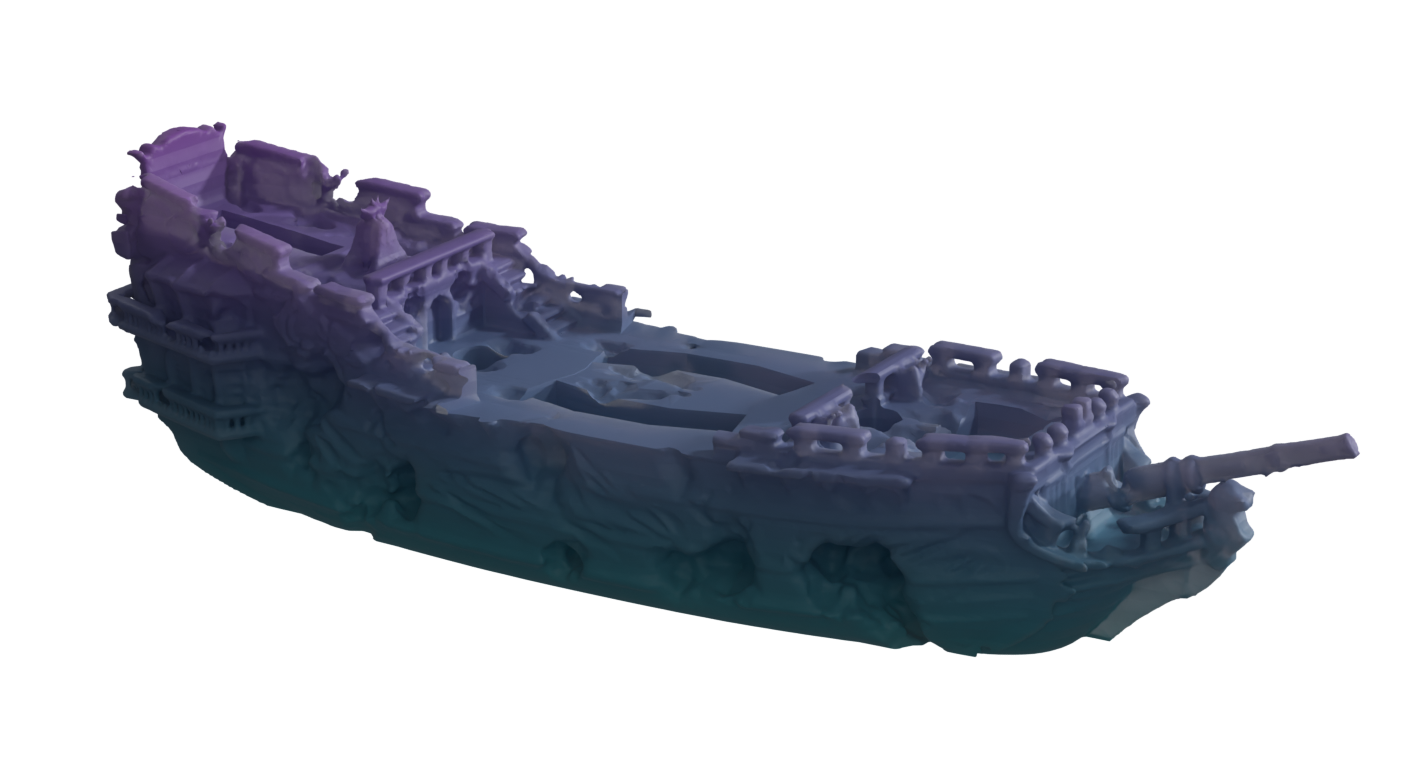
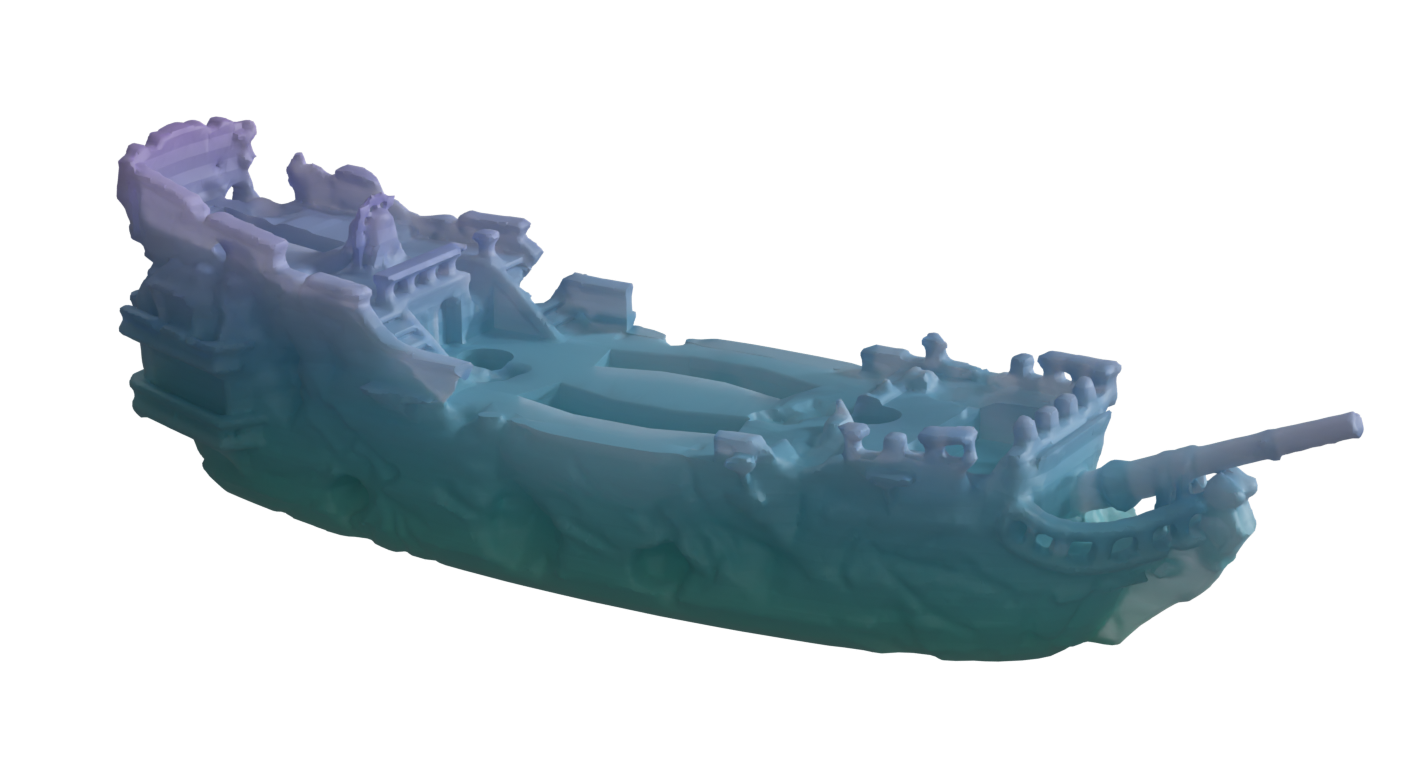
Shadow Fleet renders: light, ethereal teal-blue-lavender PETG
The gradient PETG went from dark teal/purple to a three-stop sea green, sky
blue and lavender with far less absorption and more subsurface glow.
Re-rendered the preview, parts-gallery image and faction card; ?v=2 on the
site references so cached copies refresh.

Changed region(s): [[0.0625, 0.1562, 0.9688, 0.875]]

diff --git a/nuxt-site/server/utils/shopMock.ts b/nuxt-site/server/utils/shopMock.ts
@@ -244,7 +244,7 @@ function addOnFactions(): Product[] {
       setId: 'shadow-fleet-set',
       tagline: 'Fragile ships that keep coming back.',
       description: 'Thin hulls that sink easily and rise again from any island you hold.',
-      image: '/assets/ships/ship-preview-shadow-fleet-sm.webp',
+      image: '/assets/ships/ship-preview-shadow-fleet-sm.webp?v=2',
       card: '/rulebook/pdf/faction-card-shadow-fleet.pdf',
       ships: ['Ghost hulls', 'Shadow Fleet fittings']
     },

diff --git a/scripts/blender/cc_materials.py b/scripts/blender/cc_materials.py
@@ -231,6 +231,7 @@ def make_stone_pla():
 def make_gradient_petg(name: str = "PETG_Gradient",
                        color_low=(0.03, 0.30, 0.34, 1.0),
                        color_high=(0.24, 0.07, 0.40, 1.0),
+                       color_mid=None,
                        transmission: float = 0.35,
                        roughness: float = 0.52,
                        scatter_density: float = 7.0,
@@ -283,6 +284,8 @@ def make_gradient_petg(name: str = "PETG_Gradient",
     ramp.color_ramp.elements[0].color = color_low
     ramp.color_ramp.elements[1].position = 1.0
     ramp.color_ramp.elements[1].color = color_high
+    if color_mid is not None:
+        ramp.color_ramp.elements.new(0.5).color = color_mid
     nt.links.new(tex.outputs["Generated"], sep.inputs[0])
     nt.links.new(sep.outputs["Z"], ramp.inputs["Fac"])
     nt.links.new(ramp.outputs["Color"], bsdf.inputs["Base Color"])
@@ -430,7 +433,19 @@ def make_material(preset: str, grey: float = 0.75, view: str = "iso"):
     if preset == "stone":
         return make_stone_pla()
     if preset == "shadow-petg":
-        return make_gradient_petg("PETG_ShadowFleet")
+        # Light and ethereal rather than murky: sea green at the waterline,
+        # sky blue through the middle, lavender at the top. Colours are
+        # linear RGB. The low absorption and heavier scatter/subsurface are
+        # what keep it glowing; the old dark defaults soaked the light up and
+        # the hull read as near-black on the faction card.
+        return make_gradient_petg("PETG_ShadowFleet",
+                                  color_low=(0.12, 0.76, 0.56, 1.0),
+                                  color_mid=(0.21, 0.58, 0.94, 1.0),
+                                  color_high=(0.52, 0.34, 0.90, 1.0),
+                                  transmission=0.5,
+                                  scatter_density=5.0,
+                                  absorption_density=0.12,
+                                  subsurface=0.4)
     if preset == "blue-grey":
         return make_blue_grey_pla()
     if preset == "brown":
